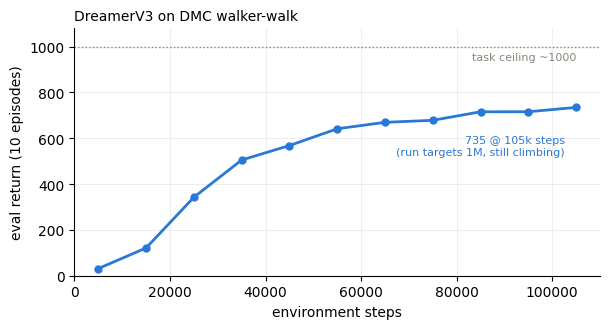
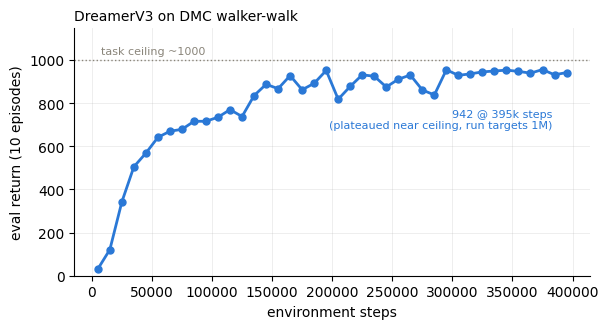
DreamerV3 walker-walk reaches the task ceiling
40 eval points overnight: 31 at 5k, 568 at 45k, 951 at 195k, then flat in the
930-955 band against a ceiling near 1000. Curve extracted out of the run
directory so it survives independently.

Curve script now describes its own tail rather than asserting 'still climbing'
-- it checks whether the last eight points are flat and says so.

diff --git a/04_analysis/dreamerv3_curve.py b/04_analysis/dreamerv3_curve.py
@@ -49,13 +49,17 @@ def main(path):
     ax.set_ylim(0, max(1080, max(returns) * 1.2))
 
     ax.axhline(1000, color=GREY, ls=":", lw=1)
-    ax.annotate("task ceiling ~1000", (steps[-1], 1000), fontsize=8,
-                color=GREY, va="top", ha="right",
-                textcoords="offset points", xytext=(0, -4))
+    ax.annotate("task ceiling ~1000", (steps[0], 1000), fontsize=8,
+                color=GREY, va="bottom", ha="left",
+                textcoords="offset points", xytext=(2, 3))
 
     last = returns[-1]
-    ax.annotate(f"{last:.0f} @ {steps[-1]/1000:.0f}k steps\n(run targets 1M, still climbing)",
-                (steps[-1], last), textcoords="offset points", xytext=(-8, -34),
+    # describe the tail honestly: still rising, or flat near the ceiling?
+    tail = returns[-8:]
+    plateaued = len(tail) >= 8 and (max(tail) - min(tail)) < 0.08 * max(tail)
+    shape = ("plateaued near ceiling" if plateaued else "still climbing")
+    ax.annotate(f"{last:.0f} @ {steps[-1]/1000:.0f}k steps\n({shape}, run targets 1M)",
+                (steps[-1], last), textcoords="offset points", xytext=(-10, -40),
                 ha="right", fontsize=8, color=BLUE)
 
     fig.tight_layout()

diff --git a/slides/build_slides.py b/slides/build_slides.py
@@ -44,10 +44,13 @@ STEP, RET = dreamerv3_status()
 v3_headline = f"{RET:.0f}" if RET else "--"
 v3_sub = (f"eval return at {STEP/1000:.0f}k / 1M env steps"
           if STEP else "run not found")
-v3_note = ("Run was still climbing when this deck was built. "
-           "Rebuild the deck to refresh."
-           if STEP and STEP < 1_000_000 else
-           "Full 1M-step run complete.")
+if STEP and STEP >= 1_000_000:
+    v3_note = "Full 1M-step run complete."
+elif RET and RET > 900:
+    v3_note = ("Plateaued near the task ceiling (~1000) from roughly 300k steps on. "
+               "Run continues to 1M.")
+else:
+    v3_note = "Run still climbing when this deck was built. Rebuild to refresh."
 
 SLIDES = [
     # ---------------------------------------------------------------- 1

diff --git a/05_dreamerv3_scale/README.md b/05_dreamerv3_scale/README.md
@@ -1,0 +1,42 @@
+# DreamerV3 at benchmark scale
+
+Part 1 shows the components are understood by building them. This part runs
+the official implementation on a real benchmark to get a curve worth showing.
+
+[NM512/dreamerv3-torch](https://github.com/NM512/dreamerv3-torch) on DMC
+walker-walk, `dmc_vision` config, 64x64 pixels, action_repeat 2, left running
+overnight on one RTX 5880 Ada.
+
+| step | eval return |
+|---|---|
+| 5k | 31 |
+| 45k | 568 |
+| 195k | 951 |
+| 395k | 942 |
+
+Task ceiling is ~1000. The curve rises steeply to ~700 by 85k, reaches the
+930-955 band around 195k, and stays there — see
+`../04_analysis/figures/dreamerv3_walker.png`, regenerate with
+`python ../04_analysis/dreamerv3_curve.py`.
+
+`results/eval_curve.jsonl` is the extracted eval points (40 of them, 10
+episodes each), copied out of the run's `metrics.jsonl` so the curve survives
+independently of the training directory.
+
+## One patch was needed
+
+`dreamer.py` line 7 hardcodes `os.environ["MUJOCO_GL"] = "osmesa"` before any
+import, so it cannot be overridden from the environment. Their Dockerfile
+`apt install`s `libosmesa6`; a bare-metal box with an NVIDIA card generally has
+EGL instead, which is also GPU-accelerated rather than software rendering:
+
+```python
+os.environ.setdefault("MUJOCO_GL", "egl")
+```
+
+Reusing an existing torch 2.4.1 install also surfaced four `torch._inductor`
+runtime dependencies that the pinned requirements do not pull — `sympy`,
+`functorch`, `filelock`, `jinja2`. `torch.compile` is on by default in this
+config, so it dies on the first compiled forward. Worth testing
+`torch.compile` on a two-line function before waiting through a 2500-step
+prefill to discover them one crash at a time.
